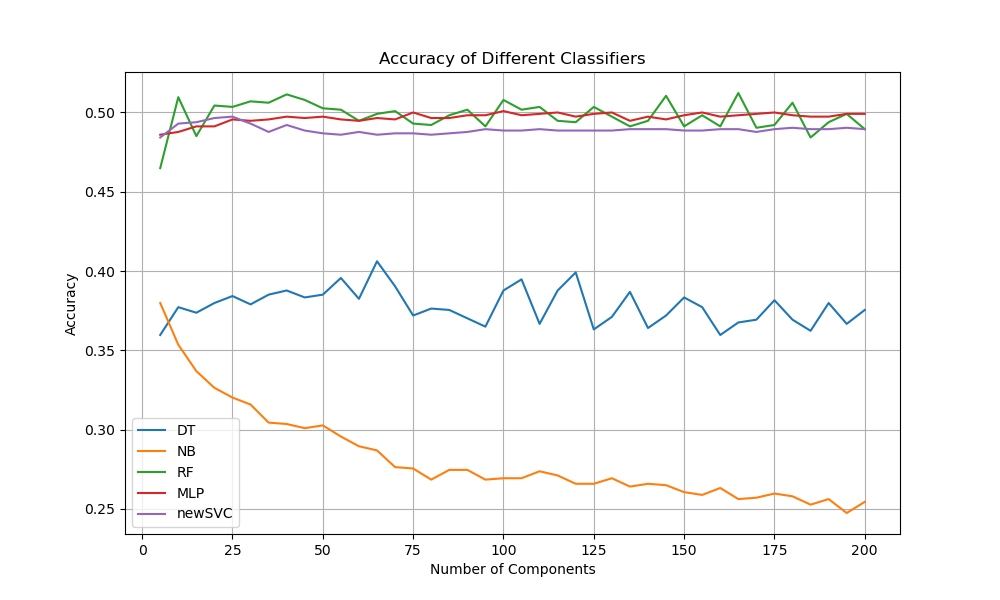
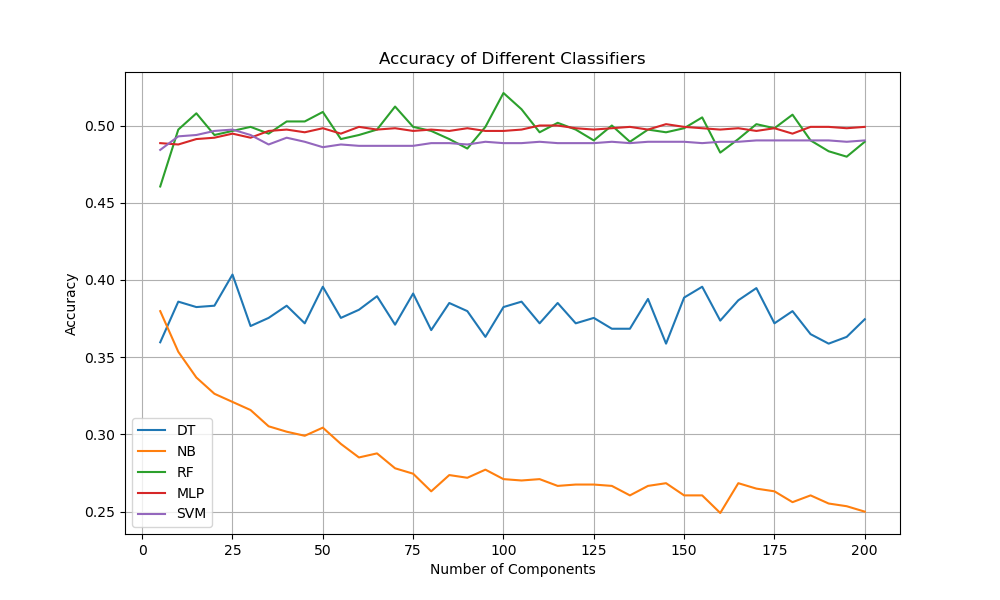
draw the dicussion figure

diff --git a/discussion/PCA_number.py b/discussion/PCA_number.py
@@ -52,11 +52,11 @@ classifiers = {
     "RF": RDF(n_estimators=100),
     "MLP": MLPClassifier(alpha=1, max_iter=1000, activation="relu"),
     # "SVM": SVC(),
-    "newSVC": SVC(gamma=2, C=1),
+    "SVM": SVC(gamma=2, C=1),
 }
 
 # using dict to save the result of the each classifier
-acc_dicts = {"DT": [], "NB": [], "RF": [], "MLP": [], "newSVC": []}
+acc_dicts = {"DT": [], "NB": [], "RF": [], "MLP": [], "SVM": []}
 numbers = [5 * i for i in range(1, 41)]
 
 for i in numbers:
